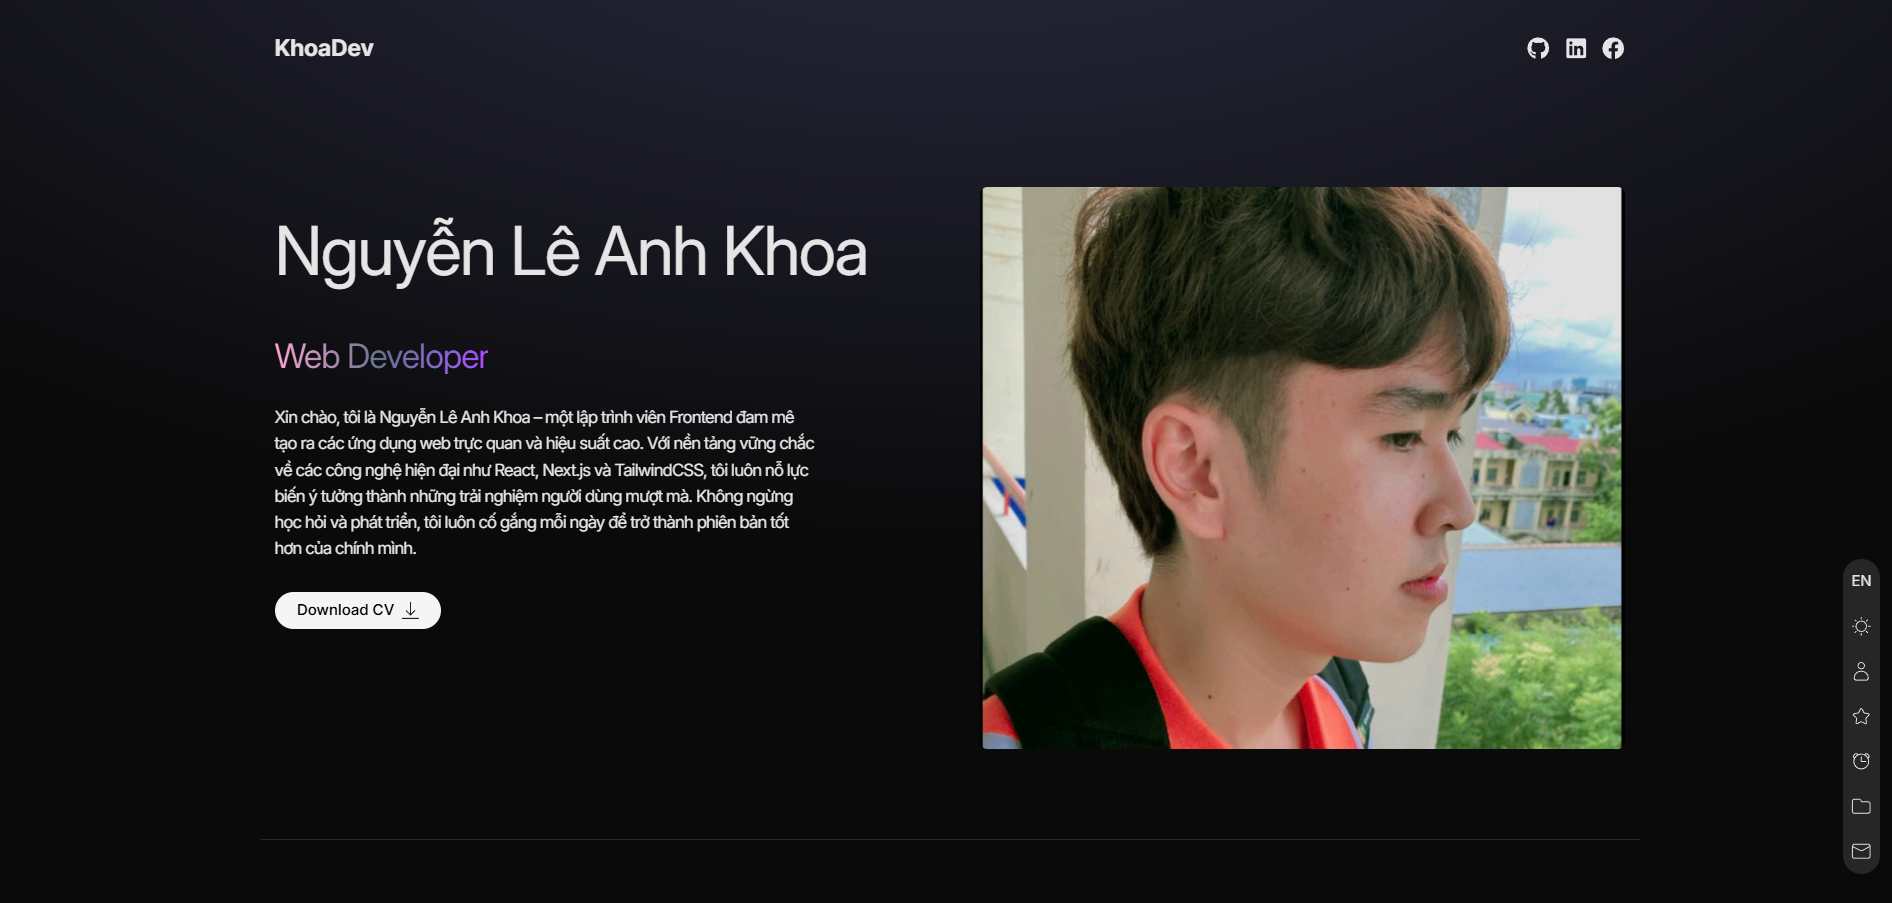
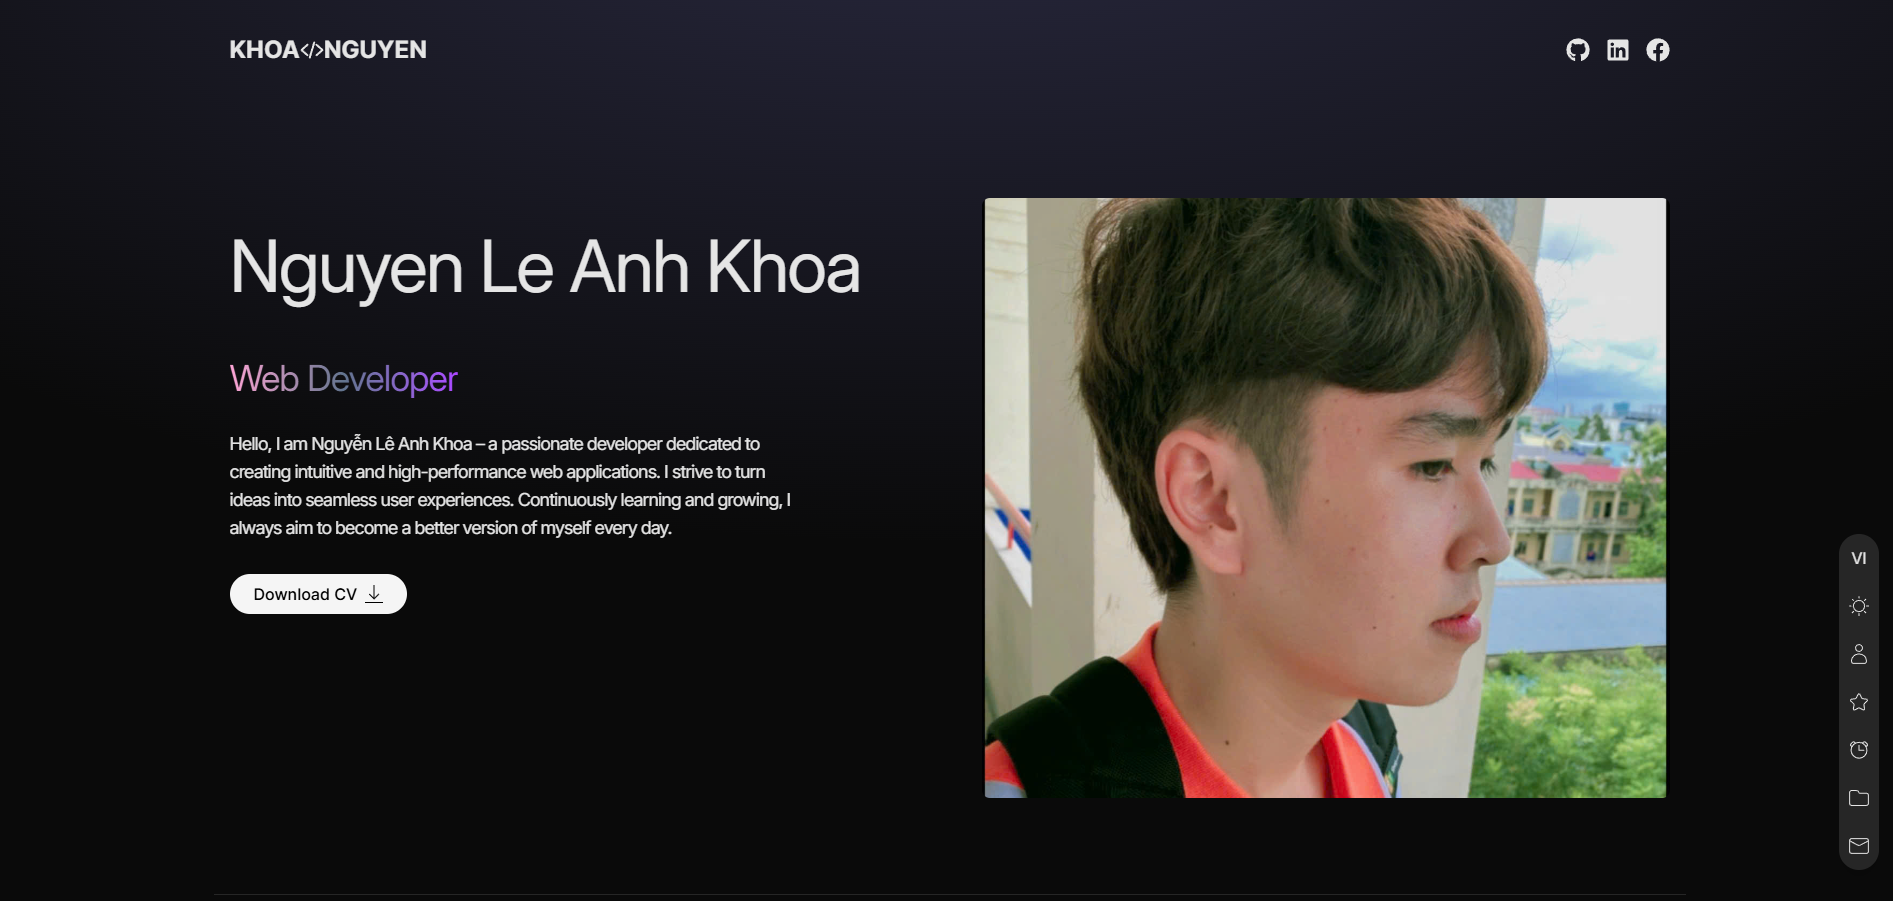
add images demo REDME.md

diff --git a/src/constants/index.js b/src/constants/index.js
@@ -41,8 +41,8 @@ import { CgWorkAlt } from 'react-icons/cg';
 
 export const HERO_CONTENT = {
      vietnamese:
-          'Xin chào, tôi là Nguyễn Lê Anh Khoa – một lập trình viên đam mê tạo ra các ứng dụng web trực quan và hiệu suất cao. Với nền tảng vững chắc về các công nghệ hiện đại như React, Next.js và TailwindCSS, tôi luôn nỗ lực biến ý tưởng thành những trải nghiệm người dùng mượt mà. Không ngừng học hỏi và phát triển, tôi luôn cố gắng mỗi ngày để trở thành phiên bản tốt hơn của chính mình.',
-     english: "Hi, I'm Nguyễn Lê Anh Khoa – a Frontend Developer passionate about crafting intuitive and high-performance web applications. With a strong foundation in modern technologies like React, Next.js, and TailwindCSS, I thrive on turning ideas into seamless user experiences. Always eager to learn and grow, I strive to improve every day to become a better version of myself.",
+          'Xin chào, tôi là Nguyễn Lê Anh Khoa – một lập trình viên đam mê tạo ra các ứng dụng web trực quan và hiệu suất cao. Tôi luôn nỗ lực biến ý tưởng thành những trải nghiệm người dùng mượt mà. Không ngừng học hỏi và phát triển, tôi luôn cố gắng mỗi ngày để trở thành phiên bản tốt hơn của chính mình.',
+     english: 'Hello, I am Nguyễn Lê Anh Khoa – a passionate developer dedicated to creating intuitive and high-performance web applications. I strive to turn ideas into seamless user experiences. Continuously learning and growing, I always aim to become a better version of myself every day.',
 };
 
 export const ABOUT_CONTENT = {

diff --git a/README.md b/README.md
@@ -3,7 +3,9 @@
 Hello, I’m Nguyễn Lê Anh Khoa – a passionate developer dedicated to creating visually appealing and high-performance web applications. Continuously learning and growing, I always push myself to become a better version of myself every day.
 
 ![Portfolio KhoaDev](https://raw.githubusercontent.com/khoait03/portfolio-khoadev/main/public/demo/portfolio-khoadev.png)
-
 ![Portfolio KhoaDev](https://raw.githubusercontent.com/khoait03/portfolio-khoadev/main/public/demo/portfolio-khoadev-2.png)
-
 ![Portfolio KhoaDev](https://raw.githubusercontent.com/khoait03/portfolio-khoadev/main/public/demo/portfolio-khoadev-3.png)
+![Portfolio KhoaDev](https://raw.githubusercontent.com/khoait03/portfolio-khoadev/main/public/demo/portfolio-khoadev-4.png)
+![Portfolio KhoaDev](https://raw.githubusercontent.com/khoait03/portfolio-khoadev/main/public/demo/portfolio-khoadev-5.png)
+![Portfolio KhoaDev](https://raw.githubusercontent.com/khoait03/portfolio-khoadev/main/public/demo/portfolio-khoadev-6.png)
+![Portfolio KhoaDev](https://raw.githubusercontent.com/khoait03/portfolio-khoadev/main/public/demo/portfolio-khoadev-7.png)
